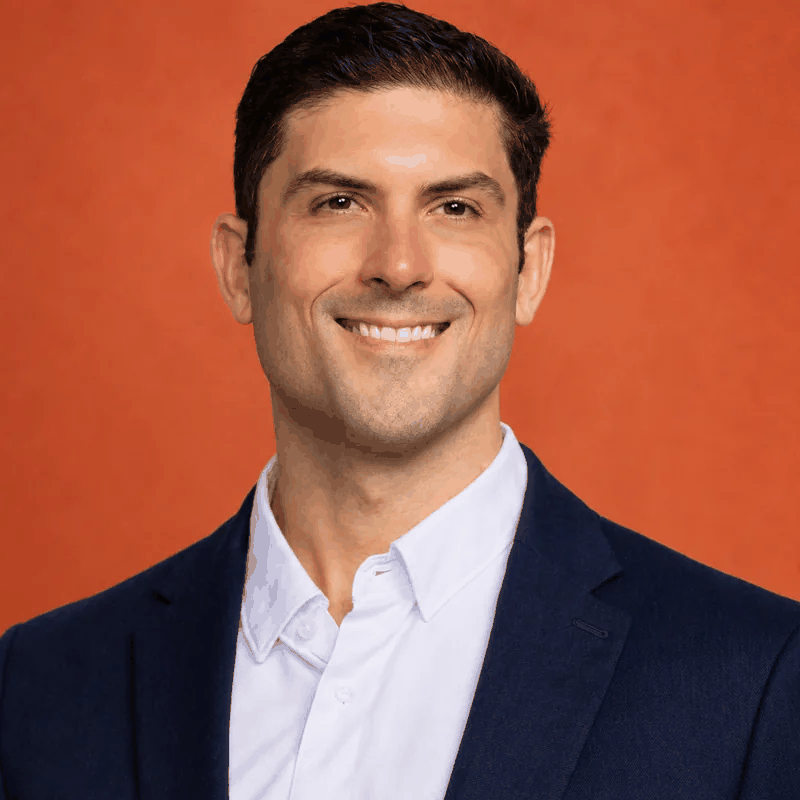
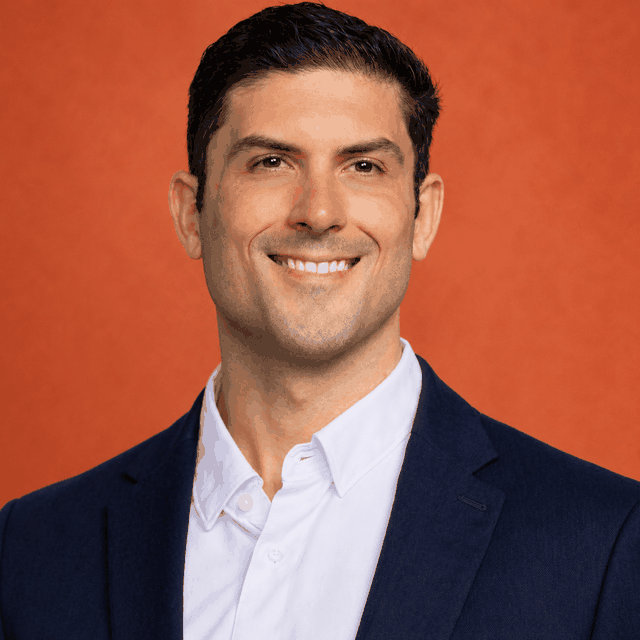
Replace the About portrait with the uploaded profile photo.
Optimize the provided PNG to a full-resolution WebP and a PNG under 200KB, keeping the descriptive asset names.

diff --git a/about/index.html b/about/index.html
@@ -177,7 +177,7 @@
       <figure class="portrait">
         <picture>
           <source srcset="/assets/igor-eduardo-ai-engineer-austin.webp" type="image/webp">
-          <img src="/assets/igor-eduardo-ai-engineer-austin.png" width="800" height="800" alt="Igor Eduardo, AI engineer and founder of Cortexa, Austin, Texas">
+          <img src="/assets/igor-eduardo-ai-engineer-austin.png" width="1254" height="1254" alt="Igor Eduardo, AI engineer and founder of Cortexa, Austin, Texas">
         </picture>
       </figure>
       <div class="prose">
